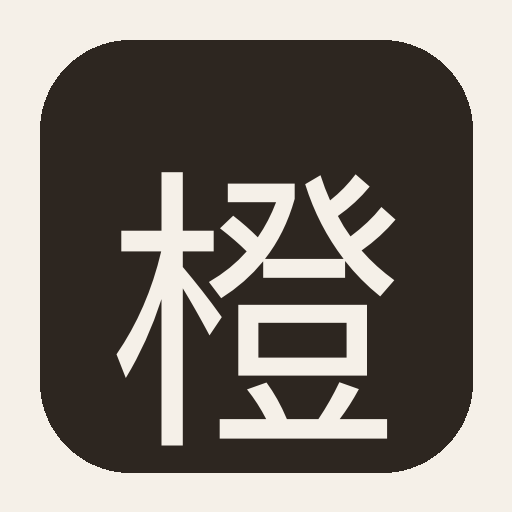
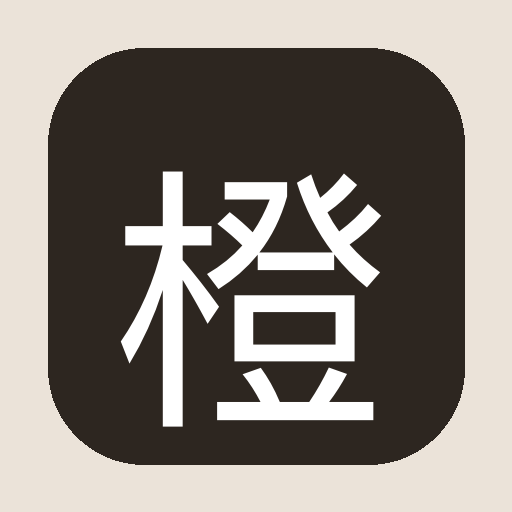
Add files via upload

diff --git a/index.html b/index.html
@@ -19,8 +19,8 @@
 <title>橙子的工作台</title>
 
 <!-- PWA -->
-<link rel="manifest" href="manifest.json">
-<link rel="apple-touch-icon" href="icon.png">
+<link rel="manifest" href="manifest.json?v=2">
+<link rel="apple-touch-icon" href="icon.png?v=2">
 <meta name="apple-mobile-web-app-capable" content="yes">
 <meta name="apple-mobile-web-app-status-bar-style" content="default">
 <meta name="apple-mobile-web-app-title" content="橙子">
@@ -70,6 +70,7 @@ body{
 }
 .nav button .ico{display:block;font-size:21px;margin-bottom:3px}
 .nav button.on{background:var(--sidebar-active);color:#fff}
+.nav-sep{height:1px;background:var(--sidebar-text);opacity:.2;margin:6px 8px}
 
 /* ==== 内容区 ==== */
 .main{
@@ -96,7 +97,7 @@ input,textarea,select{
 textarea{min-height:88px;resize:vertical;line-height:1.6}
 input::placeholder,textarea::placeholder{color:var(--text-dim)}
 .btn{
-  padding:11px 18px;font-size:15px;font-family:inherit;white-space:nowrap;
+  padding:11px 18px;font-size:16px;font-family:inherit;white-space:nowrap;
   border:none;border-radius:calc(var(--radius) - 6px);
   background:var(--accent);color:#fff;cursor:pointer;
 }
@@ -253,32 +254,17 @@ input::placeholder,textarea::placeholder{color:var(--text-dim)}
     </section>
     <!-- ==== 功能：考试日历 END ==== -->
 
-    <!-- ==== 功能：投递追踪 START ==== -->
+    <!-- ==== 功能：求职 START ==== -->
     <section class="page" id="page-jobs">
-      <div class="page-title">投递追踪</div>
-
-      <div class="card">
-        <h2>📸 截图识别岗位</h2>
-        <p class="hint" style="margin-top:0;margin-bottom:10px">
-          上传招聘截图，AI 自动提取岗位信息
-        </p>
-        <div class="row">
-          <input type="file" id="screenshotInput" accept="image/*" style="display:none" onchange="Jobs.uploadScreenshot(this)">
-          <button class="btn" onclick="document.getElementById('screenshotInput').click()">📎 上传截图识别</button>
-        </div>
-        <p class="hint" id="screenshotHint"></p>
-        <div id="ocrResult" style="margin-top:10px"></div>
+      <div class="page-title">求职</div>
+      <div class="row" style="margin-bottom:4px">
+        <button class="btn" id="ctabJobs" onclick="CareerPage.switchTab('jobs')">📸 投递追踪</button>
+        <button class="btn ghost" id="ctabGuide" onclick="CareerPage.switchTab('guide')">🧭 转行分析</button>
       </div>
-
-      <div class="card">
-        <h2>📋 投递记录</h2>
-        <div class="row" style="margin-bottom:10px">
-          <button class="btn ghost" onclick="Jobs.showAddForm()" style="width:100%">+ 手动添加</button>
-        </div>
-        <div id="jobsList"></div>
-      </div>
+      <div id="careerJobsTab"></div>
+      <div id="careerGuideTab" style="display:none"></div>
     </section>
-    <!-- ==== 功能：投递追踪 END ==== -->
+    <!-- ==== 功能：求职 END ==== -->
 
     <!-- ==== 功能：选题灵感 START ==== -->
     <section class="page" id="page-ideas">
@@ -287,14 +273,6 @@ input::placeholder,textarea::placeholder{color:var(--text-dim)}
       <div id="ideasContent"></div>
     </section>
     <!-- ==== 功能：选题灵感 END ==== -->
-
-    <!-- ==== 功能：转行分析 START ==== -->
-    <section class="page" id="page-career">
-      <div class="page-title">转行方向分析</div>
-      <div class="page-sub">基于你的背景 · 适配方向与切入路径</div>
-      <div id="careerContent"></div>
-    </section>
-    <!-- ==== 功能：转行分析 END ==== -->
 
     <!-- ==== 功能：复盘 START ==== -->
     <section class="page" id="page-review">
@@ -328,9 +306,14 @@ input::placeholder,textarea::placeholder{color:var(--text-dim)}
           填在这里的 key 只保存在你自己的手机上，不会上传，也<b>不会被导出到备份文件里</b>。
         </p>
         <div style="margin-bottom:12px">
-          <label style="font-size:14px;display:block;margin-bottom:6px">DeepSeek API Key</label>
+          <label style="font-size:16px;display:block;margin-bottom:6px">小米 MiMo API Key（截图识别用）</label>
+          <input type="password" id="key_mimo" placeholder="粘贴你的 key">
+          <p class="hint">在 platform.xiaomimimo.com 注册后获取。MiMo-V2.5 支持图片识别，用于上传截图提取岗位信息。</p>
+        </div>
+        <div style="margin-bottom:12px">
+          <label style="font-size:16px;display:block;margin-bottom:6px">DeepSeek API Key（备用）</label>
           <input type="password" id="key_deepseek" placeholder="粘贴你的 key">
-          <p class="hint">在 platform.deepseek.com 注册后，「API Keys」里创建一个。用于截图识别岗位信息。</p>
+          <p class="hint">在 platform.deepseek.com 注册。暂时未用到，后续联网功能可能用它。</p>
         </div>
         <button class="btn" onclick="Settings.saveKeys()">保存</button>
       </div>
@@ -524,15 +507,15 @@ const App = {
   routes: [
     { id:'things',   icon:'📋', name:'三件事', onShow: () => Things.render() },
     { id:'money',    icon:'💰', name:'记账',   onShow: () => Money.render() },
-    { id:'jobs',     icon:'📸', name:'投递',   onShow: () => Jobs.render() },
-    { id:'ideas',    icon:'💡', name:'选题',   onShow: () => Ideas.render() },
-    { id:'exam',     icon:'🎯', name:'考试',   onShow: () => Exam.render() },
-    { id:'career',   icon:'🧭', name:'转行',   onShow: () => Career.render() },
     { id:'review',   icon:'📊', name:'复盘',   onShow: () => Review.render() },
+    { id:'jobs',     icon:'🚀', name:'求职',   onShow: () => CareerPage.render() },
+    { id:'exam',     icon:'🎯', name:'考试',   onShow: () => Exam.render() },
+    { id:'ideas',    icon:'💡', name:'选题',   onShow: () => Ideas.render() },
     { id:'settings', icon:'⚙', name:'设置',   onShow: () => Settings.render() }
   ],
 
   go(id){
+    if (!id) return;
     document.querySelectorAll('.page').forEach(p => p.classList.remove('on'));
     document.getElementById('page-' + id)?.classList.add('on');
     document.querySelectorAll('#nav button').forEach(b =>
@@ -543,10 +526,14 @@ const App = {
   },
 
   init(){
-    document.getElementById('nav').innerHTML = this.routes.map(r =>
-      `<button data-id="${r.id}" onclick="App.go('${r.id}')">
-         <span class="ico">${r.icon}</span>${r.name}
-       </button>`).join('');
+    const sepAfter = new Set(['review','jobs']); // 在这里加分隔线
+    document.getElementById('nav').innerHTML = this.routes.map(r => {
+      let html = `<button data-id="${r.id}" onclick="App.go('${r.id}')">
+        <span class="ico">${r.icon}</span>${r.name}
+      </button>`;
+      if (sepAfter.has(r.id)) html += '<div class="nav-sep"></div>';
+      return html;
+    }).join('');
 
     const last = Store.get('_lastPage');
     this.go(this.routes.some(r => r.id === last) ? last : this.routes[0].id);
@@ -570,7 +557,7 @@ const App = {
    Settings · 设置页
    ═══════════════════════════════════════════════════════════ */
 const Settings = {
-  keys: ['deepseek'],
+  keys: ['mimo', 'deepseek'],
 
   render(){
     this.refreshBackupInfo();
@@ -884,32 +871,66 @@ const Exam = {
 /* ==== 功能：考试日历 END ==== */
 
 
-/* ==== 功能：投递追踪 START ==== */
-const Jobs = {
+/* ==== 功能：求职 START ==== */
+const CareerPage = {
+  _tab: 'jobs',
+  switchTab(tab){
+    this._tab = tab;
+    document.getElementById('ctabJobs').className = tab === 'jobs' ? 'btn' : 'btn ghost';
+    document.getElementById('ctabGuide').className = tab === 'guide' ? 'btn' : 'btn ghost';
+    document.getElementById('careerJobsTab').style.display = tab === 'jobs' ? '' : 'none';
+    document.getElementById('careerGuideTab').style.display = tab === 'guide' ? '' : 'none';
+    if (tab === 'jobs') Jobs.render();
+    if (tab === 'guide') Career.render();
+  },
   render(){
-    const key = Store.getSecret('deepseek');
-    const hint = document.getElementById('screenshotHint');
-    hint.textContent = key ? '已配置 DeepSeek key，可以上传截图识别' : '⚠ 请先去「设置」填写 DeepSeek API key，才能使用截图识别';
+    this.switchTab(this._tab || 'jobs');
+  }
+};
 
+const Jobs = {
+  _ocrResult: null, // parsed OCR result pending confirmation
+
+  render(){
+    const key = Store.getSecret('mimo');
     const list = Store.get('applications', []);
-    document.getElementById('jobsList').innerHTML = list.length
-      ? list.slice().reverse().map(j => {
-          const badgeMap = { pending:'待投递', sent:'已投递', interview:'面试中', done:'已结束' };
-          const badge = badgeMap[j.status] || '待投递';
-          return `<div class="item">
-            <span class="grow">
-              <b>${Util.esc(j.company)}</b> · ${Util.esc(j.position)}<br>
-              <span style="font-size:12px;color:var(--text-dim)">
-                ${j.salary ? '💰 ' + Util.esc(j.salary) + ' · ' : ''}
-                ${j.deadline ? '📅 截止 ' + Util.esc(j.deadline) + ' · ' : ''}
-                <span class="badge ${j.status||'pending'}">${badge}</span>
-              </span>
-              ${j.note ? '<br><span style="font-size:12px;color:var(--text-dim)">📝 ' + Util.esc(j.note) + '</span>' : ''}
-            </span>
-            <button class="del" onclick="Jobs.del('${j.id}')">✕</button>
-          </div>`;
-        }).join('')
-      : '<div class="empty">还没有投递记录<br><span style="font-size:12px">上传招聘截图或手动添加</span></div>';
+    const el = document.getElementById('careerJobsTab');
+
+    el.innerHTML = `
+      <div class="card">
+        <h2>📸 截图识别岗位</h2>
+        <p class="hint" style="margin-top:0;margin-bottom:10px">
+          上传招聘截图，MiMo AI 自动提取岗位信息
+        </p>
+        <div class="row">
+          <input type="file" id="screenshotInput" accept="image/*" style="display:none" onchange="Jobs.uploadScreenshot(this)">
+          <button class="btn" onclick="document.getElementById('screenshotInput').click()">📎 上传截图识别</button>
+        </div>
+        <p class="hint" id="screenshotHint">${key ? '已配置 MiMo key，可以上传截图识别' : '⚠ 请先去「设置」填写小米 MiMo API key，才能使用截图识别'}</p>
+        <div id="ocrResult" style="margin-top:10px"></div>
+      </div>
+
+      <div class="card">
+        <h2>📋 投递记录</h2>
+        <div class="row" style="margin-bottom:10px">
+          <button class="btn ghost" onclick="Jobs.showAddForm()" style="width:100%">+ 手动添加</button>
+        </div>
+        <div id="jobsList">${list.length
+          ? list.slice().reverse().map(j => {
+              const badgeMap = { pending:'待投递', sent:'已投递', interview:'面试中', done:'已结束' };
+              const badge = badgeMap[j.status] || '待投递';
+              return '<div class="item"><span class="grow"><b>' + Util.esc(j.company) + '</b> · ' + Util.esc(j.position) + '<br><span style="font-size:12px;color:var(--text-dim)">' + (j.salary ? '💰 ' + Util.esc(j.salary) + ' · ' : '') + (j.deadline ? '📅 截止 ' + Util.esc(j.deadline) + ' · ' : '') + '<span class="badge ' + (j.status||'pending') + '">' + badge + '</span></span>' + (j.note ? '<br><span style="font-size:12px;color:var(--text-dim)">📝 ' + Util.esc(j.note) + '</span>' : '') + '</span><button class="del" onclick="Jobs.del(\'' + j.id + '\')">✕</button></div>';
+            }).join('')
+          : '<div class="empty">还没有投递记录<br><span style="font-size:12px">上传招聘截图或手动添加</span></div>'
+        }</div>
+      </div>
+    `;
+
+    // Restore pending OCR result if any
+    if (this._ocrResult) {
+      const r = this._ocrResult;
+      document.getElementById('ocrResult').innerHTML = '<div class="card" style="margin-top:0"><h3>识别结果</h3><div style="font-size:14px;line-height:2"><b>公司：</b>' + Util.esc(r.company||'未识别') + '<br><b>岗位：</b>' + Util.esc(r.position||'未识别') + '<br><b>薪资：</b>' + Util.esc(r.salary||'未提及') + '<br><b>要求：</b>' + Util.esc(r.requirements||'未提及') + '</div><div class="row" style="margin-top:10px"><button class="btn ghost" onclick="Jobs._ocrResult=null;Jobs.render()">取消</button><button class="btn" onclick="Jobs.saveOCR()">确认保存</button></div></div>';
+    }
   },
 
   showAddForm(){
@@ -953,8 +974,8 @@ const Jobs = {
   async uploadScreenshot(input){
     const file = input.files[0];
     if (!file) return;
-    const key = Store.getSecret('deepseek');
-    if (!key) { UI.toast('请先去设置页填写 DeepSeek API key'); input.value = ''; return; }
+    const key = Store.getSecret('mimo');
+    if (!key) { UI.toast('请先去设置页填写小米 MiMo API key'); input.value = ''; return; }
 
     const hint = document.getElementById('screenshotHint');
     const result = document.getElementById('ocrResult');
@@ -965,11 +986,11 @@ const Jobs = {
       const dataUrl = await Util.compressImage(file, 1024, 0.8);
       const base64 = dataUrl.split(',')[1];
 
-      const resp = await fetch('https://api.deepseek.com/v1/chat/completions', {
+      const resp = await fetch('https://api.xiaomimimo.com/v1/chat/completions', {
         method: 'POST',
-        headers: { 'Content-Type': 'application/json', 'Authorization': 'Bearer ' + key },
+        headers: { 'Content-Type': 'application/json', 'api-key': key },
         body: JSON.stringify({
-          model: 'deepseek-chat',
+          model: 'mimo-v2.5',
           messages: [{
             role: 'user',
             content: [
@@ -990,42 +1011,34 @@ const Jobs = {
       const json = raw.replace(/```json|```/g, '').trim();
       const parsed = JSON.parse(json);
 
-      hint.textContent = '✅ 识别完成，确认后保存';
-      result.innerHTML = `
-        <div class="card" style="margin-top:0">
-          <h3>识别结果</h3>
-          <div style="font-size:14px;line-height:2">
-            <b>公司：</b>${Util.esc(parsed.company || '未识别')}<br>
-            <b>岗位：</b>${Util.esc(parsed.position || '未识别')}<br>
-            <b>薪资：</b>${Util.esc(parsed.salary || '未提及')}<br>
-            <b>要求：</b>${Util.esc(parsed.requirements || '未提及')}
-          </div>
-          <div class="row" style="margin-top:10px">
-            <button class="btn ghost" onclick="document.getElementById('ocrResult').innerHTML='';document.getElementById('screenshotHint').textContent=''">取消</button>
-            <button class="btn" onclick="Jobs.saveOCR('${Util.esc(parsed.company||'').replace(/'/g,"\\'")}','${Util.esc(parsed.position||'').replace(/'/g,"\\'")}','${Util.esc(parsed.salary||'').replace(/'/g,"\\'")}','${Util.esc(parsed.requirements||'').replace(/'/g,"\\'")}')">确认保存</button>
-          </div>
-        </div>`;
+      // Store result for confirmation
+      this._ocrResult = parsed;
+      this.render();
     } catch(e){
-      hint.textContent = '❌ ' + e.message;
+      const hint = document.getElementById('screenshotHint');
+      if (hint) hint.textContent = '❌ ' + e.message;
       console.error(e);
     }
     input.value = '';
   },
 
-  saveOCR(company, position, salary, requirements){
+  saveOCR(){
+    if (!this._ocrResult) return;
     const list = Store.get('applications', []);
     list.push({
-      id: Util.uid(), date: Util.today(), company, position, salary, requirements,
+      id: Util.uid(), date: Util.today(),
+      company: this._ocrResult.company || '',
+      position: this._ocrResult.position || '',
+      salary: this._ocrResult.salary || '',
+      requirements: this._ocrResult.requirements || '',
       deadline: '', note: '', status: 'pending'
     });
     Store.set('applications', list);
-    document.getElementById('ocrResult').innerHTML = '';
-    document.getElementById('screenshotHint').textContent = '';
+    this._ocrResult = null;
     this.render();
     UI.toast('已保存');
   }
 };
-/* ==== 功能：投递追踪 END ==== */
 
 
 /* ==== 功能：选题灵感 START ==== */
@@ -1073,10 +1086,9 @@ const Ideas = {
 /* ==== 功能：选题灵感 END ==== */
 
 
-/* ==== 功能：转行分析 START ==== */
 const Career = {
   render(){
-    const el = document.getElementById('careerContent');
+    const el = document.getElementById('careerGuideTab');
     el.innerHTML = `
       <div class="card">
         <h2>📋 你的背景画像</h2>
@@ -1130,7 +1142,7 @@ const Career = {
     `;
   }
 };
-/* ==== 功能：转行分析 END ==== */
+/* ==== 功能：求职 END ==== */
 
 
 /* ==== 功能：复盘 START ==== */
